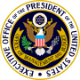
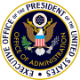
updated Seal image, added modal code

diff --git a/edit-rule.html b/edit-rule.html
@@ -695,7 +695,7 @@
                   <td>151 lines</td>
                   <td>
                     <button class="btn btn-link">Edit</button
-                    ><button class="btn btn-link">Delete</button>
+                    ><button class="btn btn-link" data-toggle="modal" data-target="#deleteModal" data-whatever="Transmit [TRANSMIT] equal...">Delete</button>
                   </td>
                 </tr>
                 <tr>
@@ -714,7 +714,7 @@
                   <td>151 lines</td>
                   <td>
                     <button class="btn btn-link">Edit</button
-                    ><button class="btn btn-link">Delete</button>
+                    ><button class="btn btn-link" data-toggle="modal" data-target="#deleteModal" data-whatever="Transmit [TRANSMIT] equal...">Delete</button>
                   </td>
                 </tr>
                 <tr>
@@ -776,7 +776,7 @@
                       <button class="btn btn-outline-primary bg-white mr-1">
                         Cancel
                       </button>
-                      <button class="btn btn-link">Delete</button>
+                      <button class="btn btn-link" data-toggle="modal" data-target="#deleteModal" data-whatever="Lock amounts...">Delete</button>
                     </div>
                   </td>
                 </tr>
@@ -797,7 +797,7 @@
                   <td>151 lines</td>
                   <td>
                     <button class="btn btn-link">Edit</button
-                    ><button class="btn btn-link">Delete</button>
+                    ><button class="btn btn-link" data-toggle="modal" data-target="#deleteModal"  data-whatever="Transmit [TRANSMIT] equal...">Delete</button>
                   </td>
                 </tr>
               </tbody>
@@ -1358,6 +1358,30 @@
         </section>
         <!-- /end ROW --------------------------------------- -->
       </div>
+
+<!-- @Developer - separate into modal component -->
+<div id="deleteModal" class="modal fade" tabindex="-1" role="dialog">
+  <div class="modal-dialog">
+    <div class="modal-content">
+      <div class="modal-header">
+        <h5 class="modal-title">Delete</h5>
+        <button type="button" class="close" data-dismiss="modal" aria-label="Close">
+          <span aria-hidden="true">&times;</span>
+        </button>
+      </div>
+      <div class="modal-body">
+        <p>Are you sure you want to delete this rule definition<span id="text-inserted"></span>?</p>
+        
+
+      </div>
+      <div class="modal-footer">
+        <button type="button" class="btn btn-secondary" data-dismiss="modal">Cancel</button>
+        <button type="button" class="btn btn-primary" data-dismiss="modal">OK</button>
+      </div>
+    </div>
+  </div>
+</div>
+
 <!-- @Developer: replace object tag with proper include file -->
       <object data="footer-site.html" width="100%"></object>
     </div>
@@ -1379,5 +1403,17 @@
       integrity="sha384-OgVRvuATP1z7JjHLkuOU7Xw704+h835Lr+6QL9UvYjZE3Ipu6Tp75j7Bh/kR0JKI"
       crossorigin="anonymous"
     ></script>
+    <script>
+
+      $('#deleteModal').on('show.bs.modal', function (event) {
+  var button = $(event.relatedTarget) // Button that triggered the modal
+  var recipient = button.data('whatever') // Extract info from data-* attributes
+  // If necessary, you could initiate an AJAX request here (and then do the updating in a callback).
+  // Update the modal's content. We'll use jQuery here, but you could use a data binding library or other methods instead.
+  var modal = $(this)
+  modal.find('.modal-title').text('Confirm Deletion')
+  modal.find('#text-inserted').text(': '+recipient);
+})
+    </script>
   </body>
 </html>
